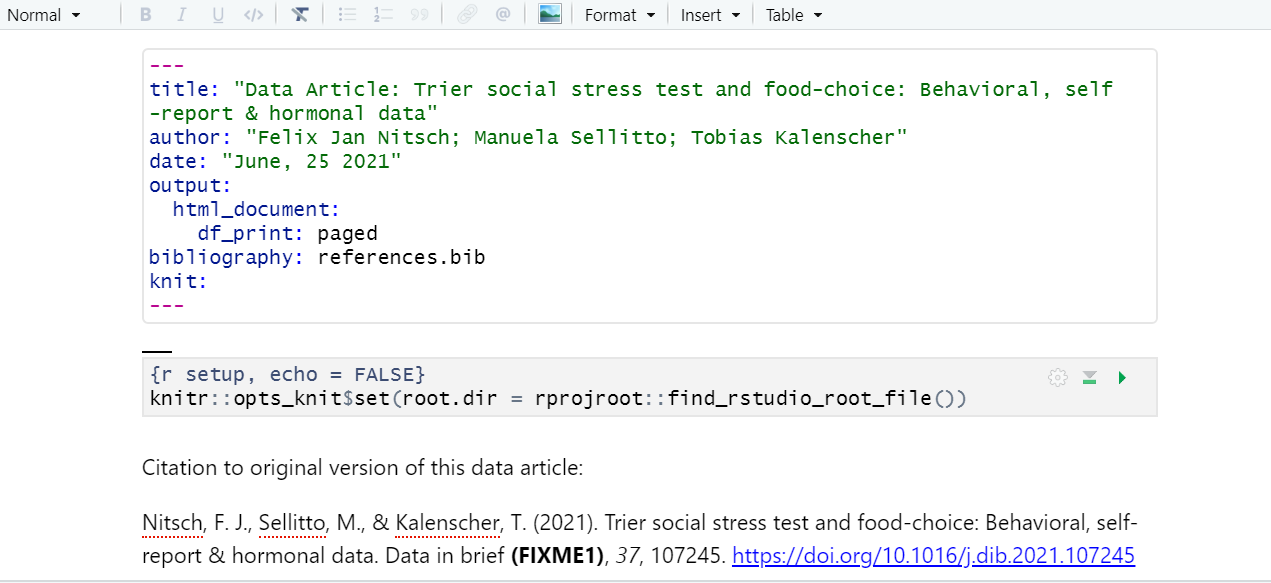
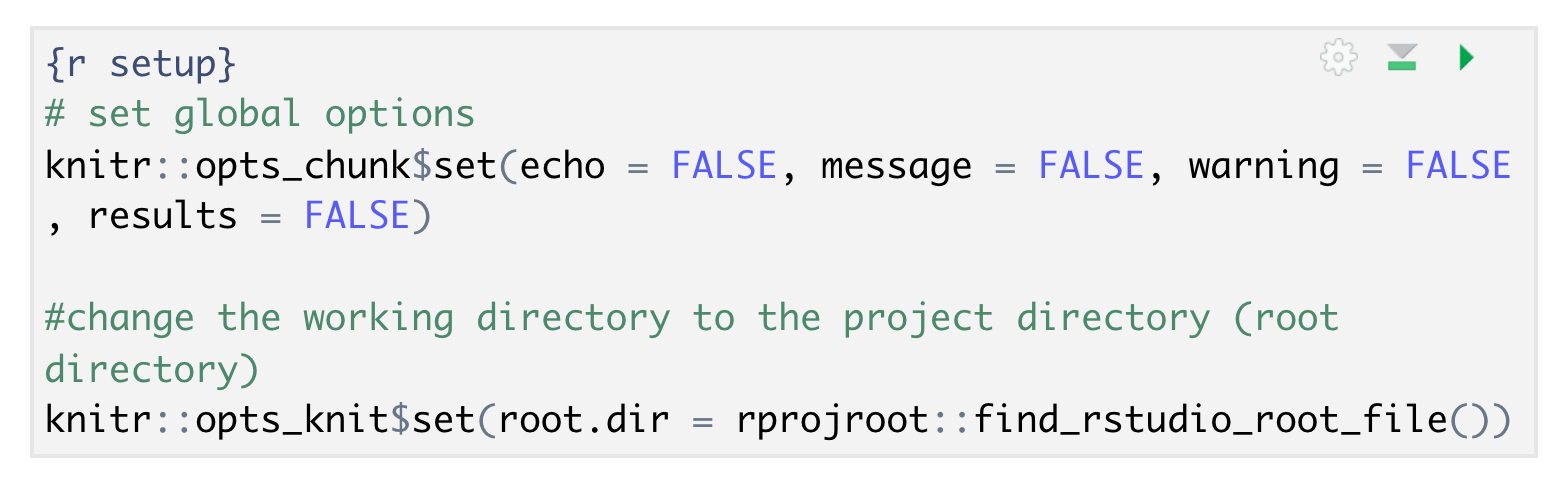
finish updating content and screenshots #179

diff --git a/episodes/08-code-chunks.md b/episodes/08-code-chunks.md
@@ -19,7 +19,6 @@ keypoints:
 - "There are options for changing the working directory of your `.rmd` document with package `rprojroot`"
 - "Use a chunk at the beginning of your document to load libraries and data globally to make your document more effiecient."
 ---
-# *UNDER DEVELOPMENT*
 
 ## Reproducible Methods for Code in R Markdown
 
@@ -66,9 +65,9 @@ Now that we've tested this code, let's add it to our actual paper:
 
 ### Add the code to our Rmd document
 
-First, find `FIXME 8` in the rmd document for Fig 3 (ctrl-f "FIXME 8"). 
+First, find `FIXME 9` in the rmd document for Fig 3 (ctrl-f "FIXME 9"). 
 
-Add the same code from our generic document where `FIXME 8` is located under "Previw of Research Results".
+Add the same code from our generic document where `FIXME 9` is located under "Previw of Research Results".
 
 ~~~
 # run the code from 03_HR_analysis.R in the code directory
@@ -123,24 +122,28 @@ What are some of the additional features of global knitr options? There are many
 
 Ok, so let's get back to fixing those path issues we get when we try to run externally sourced code. The definition of relative paths is that they are relative to your current document or working directory. So we are having issues with connections trying to read our data files because the R scripts in our code directory (../ to get to the 'root' or .Rproj directory) are in a different location relative to our rmd document (../..).  What we want to do is direct RStudio to change the default working directory for the rmd document from the directory where the document is located to the project directory (which is the root directory of our project where the .Rproj file is located). We actually have several methods to do it. 
 
-FIXME FINISH EDITING BELOW --------------
+### Option #1: Change the working directory through the RStudio IDE
 
-The first option is a simple one - we click the menu next to the knit button and change `Knit Directory` to `Project Directory`.  *NOTE this is a bit awkward because it ONLY changes the root directory for the code chunks NOT our narrative portions (think image links and inline code). 
-![change working directory rmd file](../fig/08-change-wd.png)
+The first option is a simple one - we click the menu next to the knit button and change `Knit Directory` to `Project Directory`.  
+![change working directory rmd file](../fig/08-change-wd.png) 
+
+Now, what might be the issue with changing the working directory through the IDE? Think about your project collaborators. -- Yes, if another colleague pulls this project down from GitHub and starts working on it, but doesn't have the same RStudio IDE settings as you, this paper won't knit. Rather than telling your colleague to change their IDE (and all your other current or future co-collaborators), it would be better that this setting be self-contained within the paper/project. So let's see how to do that.
+
+### Option #2: Change the working directory with a bit of code
 
 The second option requires a bit of code, but will overall be more reproducible (because it's not dependent on your personal RStudio IDE settings)
 This is a setting option in our global knitr settings:
 
-We will now navigate back up to the top of our `.rmd` document to the setup code chunk.  Then, we'll add the following line of code before or after our code for code chunk options:
+We will now navigate back up to the top of our `.rmd` document to the setup code chunk.  Then, we'll add the following line of code before or after our code for code chunk options (it wouldn't hurt to add a comment explaining what it does either):
 
 ~~~
 knitr::opts_knit$set(root.dir = rprojroot::find_rstudio_root_file())
 ~~~
-*notice this code uses one of our pre-installed packages `rprojroot`
+*notice this code uses one of our pre-installed packages `rprojroot` to 
 
 ![global knitr settings](../fig/08-global-knitr-options.png)
 
-Finally, let's adjust the path in the source() function after our working directory change. 
+Finally, let's re-adjust the path in the source() function after our working directory change (if you haven't already).
 
 `source("../../code/03_HR_analysis.R)` to `source("code/03_HR_analysis.R")`
 
@@ -155,14 +158,13 @@ Looks neater already!
 > First, run the code to make sure that our file paths are correct and our code runs without errors. Good? Time to knit the document!
 {: .checklist}
 
-Now, we can have some more fun with global options:
-
+Now, we can have some more fun with global options.
 
 ### Globally load data and packages
 
-We can actually make our lives easier in one other way too. So far we've loaded the library `tidyverse` and data frame `data1` we need in the first code chunk. Now if we want to replace, say Figure 3 (which we will do next), we would load `tidyverse` and the data for Figure 3, meaning we would be loading tidyverse for a second time unnecessarily. This is because once libraries and data are loaded they are available for the rest of the rmd document.
+We can make our lives easier in one other way too. So far we've loaded the library `tidyverse` and the data frame `df` we need in the first code chunk. Now if we want to add another figure (say the hormone analysis code '02_hormone_analysis.r`), which uses the same data as our first figure - we would be loading tidyverse for a second time unnecessarily. This is because once libraries and data are loaded they are available for the rest of the rmd document.
 
-Instead, we can load libraries and data at the beginning of our document which makes it available for all other figures or calculations and lets us avoid repetition. This also makes it easier for us to keep track of all the libraries and data we need to use in any given document. If anything needs to be tweaked, we don't need to search through every code chunk in our rmd document to make a change. 
+Instead, we can load libraries and data once at the beginning of our document making it available for all other figures or calculations throughout the document -  allowing us to avoid repetition in our code and saving us rendering time. This also makes it easier for us to keep track of all the libraries and data we need to use in any given document. If anything needs to be tweaked, we don't need to search through every code chunk in our rmd document to make a change - it's listed right at the top. 
 
 
 ```
@@ -172,9 +174,9 @@ library(BayesFactor)
 library(patchwork)
 
 # load data
-df <- read.csv("./output/data/preprocessed-GARP-TSST-data.csv", encoding = "UTF-8")
-
+df <- read_csv("./output/data/preprocessed-GARP-TSST-data.csv")
 ```
+{: .language-r}
 
 > ## Challenge 8.2: Order matters (optional)
 >
@@ -184,17 +186,11 @@ df <- read.csv("./output/data/preprocessed-GARP-TSST-data.csv", encoding = "UTF-
 > > ## Solution:
 > > 
 > > We would get an error because we haven't loaded tidyverse yet!
-> > FIXME add screenshot of error
+> > ![load data error](../fig/08-error-load-data.png)
 > {: .solution}
 {: .challenge}
 
-
-It'll look like the following:
-![load libraries & data](../fig/08-load-libraries-data.png)
-
 At this point we could go back through our R scripts and comment out (or delete) the beginning sections where we load the data and libraries. That will save some time for the rmd document to render, because the data and libraries will only load once instead of twice. You can imagine that the more code chunks you have the more time taking this step would save. Bonus that this also works to load the data before it is called in inline code as well!
-
-
 
 > ## Tip: Many ways to run external code
 > There are at least 3-4 methods one can use to run external code, the best choice may just depend on the context or on your personal preference. All are a bit awkward because of relative paths, but better than copy/pasting code from elsewhere in your project (in our humble opinion):
@@ -209,7 +205,7 @@ At this point we could go back through our R scripts and comment out (or delete)
 
 > ##  8.3: Your turn! Create Figure 4 with the external code
 > 
-> First, find `FIXME 9` in the rmd document for Fig 4 (ctrl-f "FIXME 9"). We need to add the code for the hormone analysis.
+> First, find `FIXME 10` in the rmd document for Fig 4 (ctrl-f "FIXME 10"). We need to add the code for the hormone analysis.
 >
 > Make sure to give the code chunk a name: `fig4-hormones` and a caption: `"Fig 4: Cortisol and Amylase levels in stress and control groups"`
 >
@@ -217,11 +213,11 @@ At this point we could go back through our R scripts and comment out (or delete)
 > > ~~~
 > > {r fig4-hormones, fig.cap = "Fig 4: Cortisol and Amylase levels in stress and control groups" }
 > > # run the code from 02_hormone_analysis.R in the code directory
-> > source("../../code/02_hormone_analysis.R", local = knitr::knit_global())
+> > source("code/02_hormone_analysis.R", local = knitr::knit_global())
 > > # display the plot created by code in 02_hormone_analysis.R
 > > plot 
 > > ~~~
-> > {: .language -r}
+> > {: .language-r}
 > {: .solution}
 {: .challenge}
 
@@ -231,13 +227,16 @@ What if you only need to make a quick calculation and adding a code chunk seems 
 
 You can also include `r code` directly in your the text portion of your document. Say you are discussing some of the summary statistics in your manuscript, R Markdown makes this possible through HTML/LaTeX inline code which allows you to calculate simple expressions integrated to your narrative. Inline code enables you to insert `r code` into your document to dynamically updated portions of your text. In other words, if your data set changes for any reason the code will automatically update the calculation specified. 
 
-This can be helpful when referring to specific variables on your data. For example, you should include numbers that are derived from the data as code not as numbers. Thus, rather than writing “The CSV file contains choice consistency data for 10.000 simulated participants” (**FIXME8**), replace the static number with a bit of code that, when evaluated, gives you a dynamic number if anything changes on your dataset. Please note that this insertion is not included in the visual editor, so we need to do write an expression, for example:
+This can be helpful when referring to specific variables on your data. For example, you should include numbers that are derived from the data as code not as numbers. Thus, rather than writing “The CSV file contains choice consistency data for 10.000 simulated participants” **(FIXME8)** , replace the static number with a bit of code that, when evaluated, gives you a dynamic number if anything changes on your dataset. Note that there is not an insert option to do this from the menu in the visual editor, so we need to insert inline code manually with  ```r ```, for example:
 
-The CSV file contains choice consistency data for ``r nrow(bronars_simulation_data.csv)`` simulated participants.
+The CSV file contains choice consistency data for ``r nrow(bronars_simulation_data)`` simulated participants.
 
-When you knit you might get an error. Any idea why? That is because we need to make sure to import the dataset we are referring to and call it in R Markdown before the inline code can work. Let's follow this process by including:
+When you knit you might get an error. Any idea why? That is because we need to make sure to import the dataset we are referring to before the inline code can work. Let's add the following to our chunk at the beginning of the document where we loaded our other data:
 
-``r bronars_simulation_data <- read.csv("../../data/bronars_simulation_data.csv")``
+~~~
+bronars_simulation_data <- read_csv("data/bronars_simulation_data.csv")
+~~~
+{: .language-r}
 
 Time to Knit! If you update your dataset this value will match the number of rows. 
 
